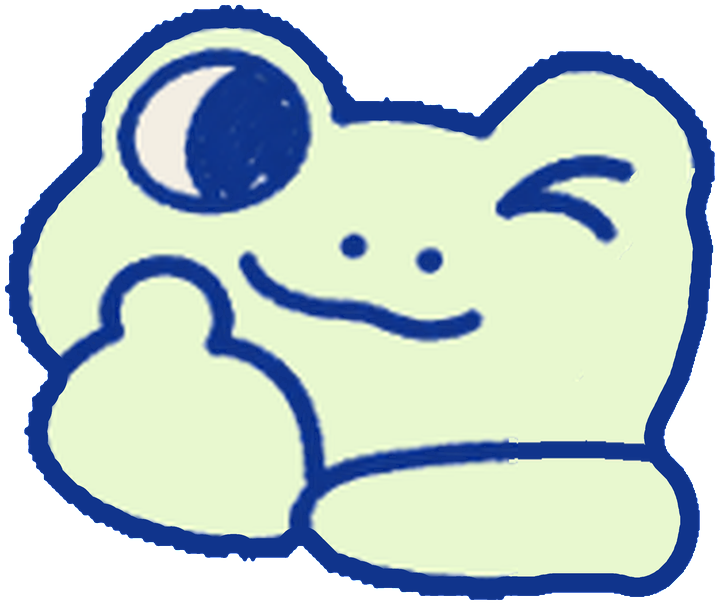
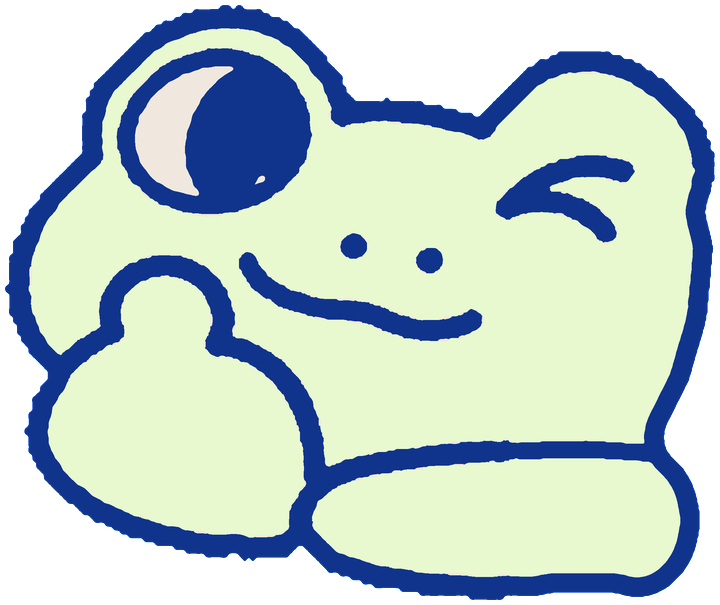
About: founder frog on a periwinkle panel, cleaner mint frog edges
Claude-Session: https://claude.ai/code/session_01Hrhj813jPzogHYwfjwWqwN

diff --git a/index.html b/index.html
@@ -847,6 +847,10 @@ footer.foot{border-top:1px solid var(--line);background:var(--cream)}
 .mint-band .collab-card{box-shadow:inset 0 0 0 1.5px var(--ink-navy)}
 .mint-band .founder2{box-shadow:none}
 @media (max-width:760px){.svc-frog{width:150px;top:-84px;right:4%}.svc-rows{margin-top:84px}}
+
+.mint-band .founder2{position:relative;background:#8DA2DB;box-shadow:none !important;border:1.5px solid var(--ink-navy);box-sizing:border-box}
+.mint-band .founder2{aspect-ratio:1/1}
+.mint-band .founder2 img{position:absolute;width:100%;height:auto;left:8%;bottom:-7%;object-fit:unset;transform:rotate(-5deg)}
 /* contact page */
 .form-frog{position:absolute;right:24px;top:-92px;width:150px;height:auto;transform:rotate(6deg);pointer-events:none}
 form#contact-form{margin-top:72px !important;scroll-margin-top:110px}
@@ -979,7 +983,7 @@ form#contact-form{margin-top:72px !important;scroll-margin-top:110px}
   </section>
 
   <div class="mint-band"><section id="team-section" class="wrap team2" aria-labelledby="team-h">
-    <figure class="founder2"><img src="img/founder-frog.png" alt="Evelio, founder of Reelclip, as the winking green frog"></figure>
+    <figure class="founder2"><img src="img/frog-mint.png" alt="Evelio, founder of Reelclip, as the winking green frog"></figure>
     <div class="team2-txt">
       <p class="lbl">The family</p>
       <h2 class="bigh" id="team-h">EVELIO</h2>
